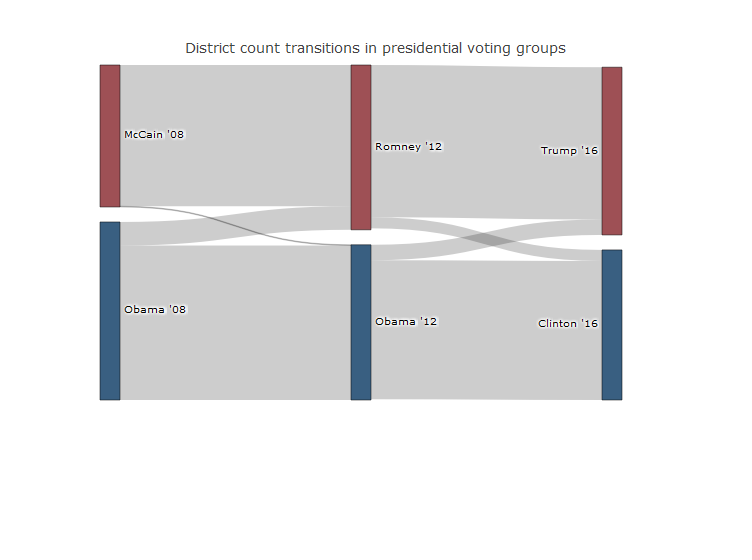
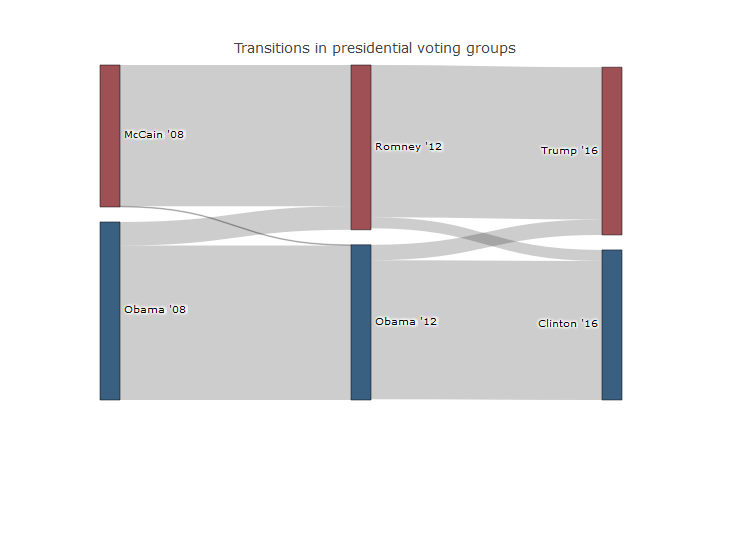
re

Changed region(s): [[0.2447, 0.0607, 0.7646, 0.1214]]

diff --git a/README.md b/README.md
@@ -595,7 +595,7 @@ dailykos_tile <- lapply (c(dailyvos_tile_inner,
 names(dailykos_tile) <- c('inner', 'outer')
 ```
 
-> **An overview of Senate representation** by state and party affiliation utilizing an equal-area tile map of US states.
+> An overview of **Senate representation** by state and party affiliation utilizing an equal-area tile map of US states.
 
 ``` r
 sens <- rvoteview_senate_50 %>%
@@ -806,7 +806,7 @@ plot_ly(
       value =  c(1,192,210,32,189,21,15,207))) %>% 
   
     layout(
-      title = "District count transitions in presidential voting groups",
+      title = "Transitions in presidential voting groups",
       font = list(size = 10))
 ```
 
@@ -816,4 +816,4 @@ plot_ly(
 
 ### 7 Summary
 
-**Hopefully a nice round-up** of useful open source resources for investigating & visualizing federal election results. I will update & develop as things get updated & develop.
+**Hopefully a nice round-up** of useful open source resources for investigating & visualizing federal election results. I will update & develop as things get updated & develop. Ley us know!
